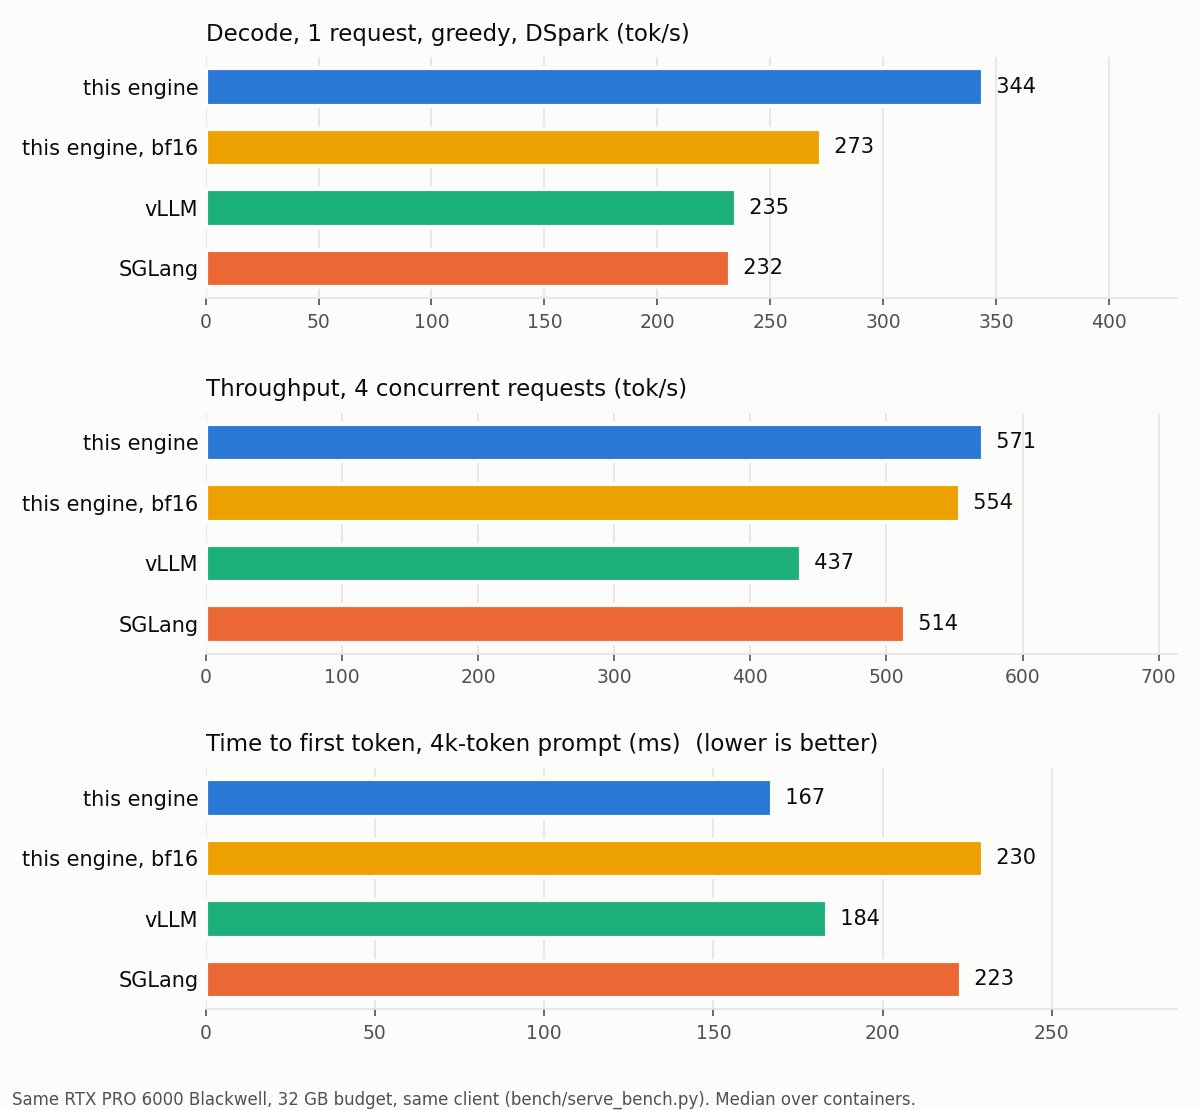
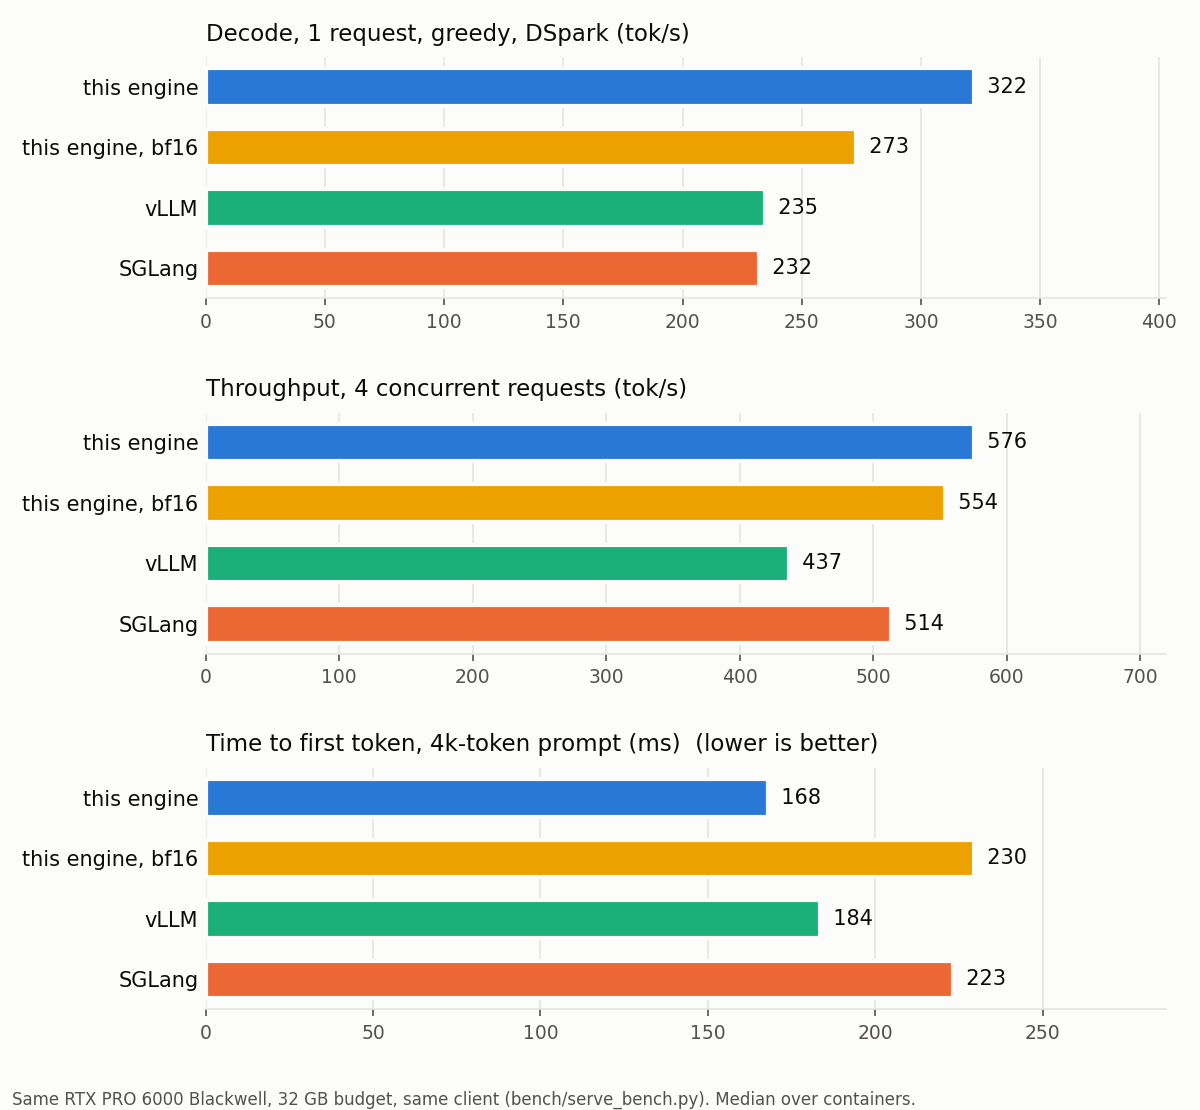
docs: 5090-size memory test, uncapped comparison, fifth container

diff --git a/docs/media/src/scenes/endcard.html b/docs/media/src/scenes/endcard.html
@@ -32,11 +32,11 @@
   <div id="kicker" class="label">Inkling-2-Mini · one 32 GB GPU</div>
   <div id="head">Faster decode than SGLang and&nbsp;vLLM.</div>
   <div id="stats">
-    <div class="row us"><div class="l label">This engine</div><div class="track"><div class="bar" data-v="344.1"></div><div class="v">344<small>TOK/S</small></div></div></div>
+    <div class="row us"><div class="l label">This engine</div><div class="track"><div class="bar" data-v="322.3"></div><div class="v">322<small>TOK/S</small></div></div></div>
     <div class="row"><div class="l label">SGLang</div><div class="track"><div class="bar" data-v="232.1"></div><div class="v">232<small>TOK/S</small></div></div></div>
     <div class="row"><div class="l label">vLLM</div><div class="track"><div class="bar" data-v="234.8"></div><div class="v">235<small>TOK/S</small></div></div></div>
   </div>
-  <div id="ctx">One request, greedy: medians over containers, same GPU, same 32&nbsp;GB budget, server default. 4 requests: 571 vs 514 (SGLang) and 437 (vLLM)&nbsp;tok/s. Python and Triton.</div>
+  <div id="ctx">One request, greedy: medians over containers, same GPU, same 32&nbsp;GB budget, server default. 4 requests: 576 vs 514 (SGLang) and 437 (vLLM)&nbsp;tok/s. Python and Triton.</div>
   <div id="url">github.com/amw720386/inkling-2-mini-inference</div>
   <div id="magni" class="label">Made at Magni</div>
 </div>

diff --git a/docs/media/src/scenes/howitworks.html b/docs/media/src/scenes/howitworks.html
@@ -51,7 +51,7 @@
     <span><i style="background:var(--green)"></i>accepted</span>
     <span><i style="background:var(--red)"></i>rejected</span>
   </div>
-  <div id="caveat">Measured on an RTX PRO 6000 Blackwell. 4 concurrent requests: 571 tok/s vs 514 (SGLang) and 437 (vLLM).</div>
+  <div id="caveat">Measured on an RTX PRO 6000 Blackwell. 4 concurrent requests: 576 tok/s vs 514 (SGLang) and 437 (vLLM).</div>
 </div>
 <script src="../lib/scene.js"></script>
 <script>

diff --git a/tools/results_table.py b/tools/results_table.py
@@ -2,7 +2,7 @@
 
 Each engine has one file per benchmark container (serve_ours.json, serve_ours-2.json, ...). A cell is the median over
 the containers that measured it. The README and docs/benchmarks.md tables are pasted from this output, so every number
-traces to a result file. `--spread` prints each container's value instead.
+traces to a result file. `--spread` prints each container's value instead, `--uncapped` the runs without the 32 GB memory cap.
 """
 
 import json
@@ -13,6 +13,7 @@ import sys
 
 ROOT = pathlib.Path(__file__).resolve().parent.parent
 ENGINES = [("ours", "this engine"), ("ours-bf16", "this engine, bf16"), ("vllm", "vLLM"), ("sglang", "SGLang")]
+UNCAPPED = [("ours-uncapped", "this engine"), ("vllm-uncapped", "vLLM"), ("sglang-uncapped", "SGLang")]
 METRICS = [  # (column, path, unit)
     ("decode, greedy", ("decode_greedy", "overall_tok_s"), ""), ("decode, T=1", ("decode_t1", "overall_tok_s"), ""),
     ("2 concurrent", ("concurrency", "2", "aggregate_tok_s"), ""),
@@ -25,7 +26,7 @@ METRICS = [  # (column, path, unit)
 
 def containers(engine):
     """Result files of one engine, one per container."""
-    pat = re.compile(rf"serve_{engine}(-\d+)?\.json$")
+    pat = re.compile(rf"serve_{engine}(-\d+)?\.json$")  # "ours" does not match "ours-uncapped"
     files = sorted(p for p in (ROOT / "results").glob("serve_*.json") if pat.match(p.name))
     return [r for r in (json.loads(p.read_text()) for p in files) if "error" not in r]
 
@@ -49,7 +50,7 @@ def main():
     spread = "--spread" in sys.argv
     print("| | " + " | ".join(m[0] for m in METRICS) + " |")
     print("|---|" + "---:|" * len(METRICS))
-    for engine, label in ENGINES:
+    for engine, label in (UNCAPPED if "--uncapped" in sys.argv else ENGINES):
         runs, cells = containers(engine), []
         for name, path, unit in METRICS:
             v = values(runs, path)

diff --git a/docs/benchmarks.md b/docs/benchmarks.md
@@ -3,10 +3,24 @@
 **Hardware.** Every number here comes from an NVIDIA RTX PRO 6000 Blackwell on Modal, with the engine held to a
 32 GB budget: 188 SMs and about 1.5 TB/s measured memory bandwidth.
 
-**RTX 5090.** The engine should carry over well: a 5090 has the same GB202 / sm_120 chip (170 SMs), similar rated
-memory bandwidth, and 32 GB. Decode is memory-bound. GeForce cards run bf16 tensor-core math with fp32 accumulation
-at half the PRO card's rate, so bf16 prefill should be slower there and the FP8 / FP4 paths should gain more. None of
-this has been measured on a 5090.
+**RTX 5090.** Does it fit? A second process filled the card until only 31.0 GiB was free (a 5090 has 32607 MiB =
+31.84 GiB in total), so the engine ran into a real device limit. Each job started from its own empty kernel cache, and all
+of these ran
+(`tests/gpu/fit_5090.py`, device peak from `nvidia-smi`, including the CUDA context):
+
+| | peak of 31.0 GiB |
+|---|---:|
+| default (FP8 + FP4), 4 slots x 32k, four 31k-token prompts at once, twice | 28.5 GiB |
+| bf16, the same | 28.6 GiB |
+| 256k context, one 250k-token prompt | 27.5 GiB |
+| server end-to-end test | 25.4 GiB |
+| soak test | 25.6 GiB |
+
+Before the kernel settings were pinned, a first start needed 31.3-31.5 GiB and ran out of memory here
+([experiments.md](experiments.md)). The 5090 has the same GB202 / sm_120 chip with 170 SMs and similar rated memory
+bandwidth, so the kernels run and decode, which is memory-bound, should carry over. GeForce cards run bf16 tensor-core
+math with fp32 accumulation at half the PRO card's rate, so bf16 prefill should be slower there and the FP8 / FP4 paths
+should gain more. Nothing has been run on a 5090, so no speed here is a 5090 speed.
 
 ## Same GPU, same client: this engine vs vLLM vs SGLang
 
@@ -14,7 +28,7 @@ this has been measured on a 5090.
 
 | | decode, greedy | decode, T=1 | 2 concurrent | 4 concurrent | TTFT 1k | TTFT 4k | TTFT 8k | TTFT 30k | GSM8K | peak GPU |
 |---|---:|---:|---:|---:|---:|---:|---:|---:|---:|---:|
-| this engine (4) | 344 | 264 | 464 | 571 | 48 ms | 167 ms | 341 ms | 1420 ms | 0.837 | 28.8 GiB |
+| this engine (5) | 322 | 267 | 463 | 576 | 48 ms | 168 ms | 343 ms | 1421 ms | 0.835 | 28.8 GiB |
 | this engine, bf16 (2) | 273 | 239 | 437 | 554 | 65 ms | 230 ms | 467 ms | 1884 ms | 0.853 | 28.6 GiB |
 | vLLM (2) | 235 | 212 | 302 | 437 | 60 ms | 184 ms | - | - | 0.840 | 32.3 GiB |
 | SGLang (5) | 232 | 192 | 298 | 514 | 67 ms | 223 ms | 434 ms | 1675 ms | 0.845 | 31.4 GiB |
@@ -29,9 +43,11 @@ differ. Measured 2026-11-23: SGLang `lmsysorg/sglang:inkling-2-mini`, vLLM 0.34.
 torch 2.9.1 and Triton 3.6. Raw files: `results/serve_*.json`, one per container; the table is their median
 (`tools/results_table.py`, `--spread` for every container).
 
-**Spread between containers** (lowest - highest): decode greedy 322-366 (ours) vs 232-233 (SGLang); T=1 262-267 vs
-190-193; 2 requests 458-467 vs 281-312; 4 requests 554-579 vs 500-538. Single-request decode past the natural end of
-an answer varies by run.
+**Spread between containers** (lowest - highest): decode greedy 320-366 (ours) vs 232-233 (SGLang) and 235 (vLLM);
+T=1 262-267 vs 190-193 and 212-213; 2 requests 458-467 vs 281-312; 4 requests 554-579 vs 500-538. Our greedy spread is one
+prompt: the 6 decode prompts include one that the engine runs past its natural end, where the text, and so the draft
+acceptance, varies by run. Over the other five, our medians are 357 / 361 / 362 tok/s vs 254 / 256 (SGLang) and 259 / 260
+(vLLM), about 1.4x both.
 
 How to read the columns:
 
@@ -49,6 +65,20 @@ Until 2026-11-22 the client divided all tokens by the time between the first and
 out special tokens at the end of an answer. Earlier decode numbers for this engine (for example 363 tok/s greedy and
 325 at temperature 1 for `--dense-fp8`) were too high and have been withdrawn. The concurrency numbers were best of
 two short runs.
+
+### Without the memory cap
+
+The 32 GB budget is this project's choice. On the whole 96 GB card, each engine with the same flags and no cap (vLLM at
+`--gpu-memory-utilization 0.9 --max-model-len 32768`, SGLang at `--mem-fraction-static 0.8`), two containers each:
+
+| | decode, greedy | decode, T=1 | 2 concurrent | 4 concurrent | TTFT 1k | TTFT 4k | TTFT 8k | TTFT 30k | GSM8K | peak GPU |
+|---|---:|---:|---:|---:|---:|---:|---:|---:|---:|---:|
+| this engine (2) | 321 | 266 | 463 | 565 | 48 ms | 168 ms | 342 ms | 1424 ms | 0.837 | 28.5 GiB |
+| vLLM (2) | 235 | 213 | 320 | 390 | 60 ms | 184 ms | 348 ms | 1409 ms | - | 84.3 GiB |
+| SGLang (2) | 228 | 203 | 299 | 512 | 68 ms | 199 ms | 395 ms | 1585 ms | - | 78.8 GiB |
+
+Every column has the same order as with the cap, except TTFT at 30k, where vLLM is level with this engine (1408-1411 vs
+1422-1426 ms). SGLang's and vLLM's decode rates barely change; vLLM's 30k prefill now fits.
 
 **vLLM** could not hold a 32k context in this budget. It reported 7.3 GiB of KV cache left after weights, which is
 about 6.9k tokens, so it ran with `--max-model-len 6144`. Its 8k and 30k TTFT are therefore missing, and its

diff --git a/README.md b/README.md
@@ -20,30 +20,34 @@ follows SGLang's implementation.
 
 **Ahead** (same GPU, same 32 GB budget, same client, medians over containers):
 
-- **Single-request decode:** greedy 344 vs 235 (vLLM) and 232 (SGLang) tok/s; temperature 1 264 vs 212 and 192.
-- **Concurrent requests:** 2 requests 464 vs 302 and 298 tok/s; 4 requests 571 vs 437 and 514.
-- **Time to first token:** 167 vs 184 and 223 ms at 4k tokens, and 1420 vs 1675 ms (SGLang) at 30k.
+- **Single-request decode:** greedy 322 vs 235 (vLLM) and 232 (SGLang) tok/s; temperature 1 267 vs 212 and 192.
+- **Concurrent requests:** 2 requests 463 vs 302 and 298 tok/s; 4 requests 576 vs 437 and 514.
+- **Time to first token:** 168 vs 184 and 223 ms at 4k tokens, and 1421 vs 1675 ms (SGLang) at 30k.
 - **More context in 32 GB:** four slots of 32k tokens each, and 256k on one card with an FP8 cache.
 
   <img src="docs/media/memory.gif" width="720" alt="The 32 GB budget: weights, four 32k KV slots, CUDA graphs; then one 256k FP8 slot">
 
-- **GSM8K** is level with both (0.835-0.840 vs 0.840 and 0.845, n = 200).
+- **GSM8K** is level with both (0.835-0.840 vs 0.840 and 0.845, n = 200; standard error about 0.026).
 
 **What to know:**
 
 - The server runs FP8 dense weights and FP4 prefill by default, which is not the bf16 checkpoint math.
   `--no-dense-fp8 --no-fp4-prefill` brings it back (decode 273 tok/s greedy, 4k TTFT 230 ms).
-- Single-request and 4-request rates depend on the prompts: over the six prompt rotations, individual 4-request
-  runs span 513-777 tok/s. Medians are over 2-5 containers per engine.
-- The engine should carry over well to an **RTX 5090**: it has the same GB202 chip, the engine fits in 32 GB, and
-  decode is limited mainly by memory bandwidth. We haven't measured it on one yet, and GeForce cards run bf16 with
-  fp32 accumulation at half rate, so the FP8 / FP4 paths matter more there.
+- Rates depend on the prompts: over the six prompt rotations, individual 4-request runs span 513-777 tok/s. Medians
+  are over 2-5 containers per engine. The table's 30k TTFT has no vLLM value because it doesn't fit in 32 GB.
+- **Without the 32 GB cap** (two containers each, every engine free to use the whole 96 GB card): decode greedy 321 vs
+  235 (vLLM) and 228 (SGLang), 4 requests 565 vs 390 and 512, 4k TTFT 168 vs 184 and 199 ms. At 30k tokens vLLM is level
+  with us (1409 vs 1424 ms); SGLang is at 1585 ms. ([docs/benchmarks.md](docs/benchmarks.md))
+- **RTX 5090:** it should work there. A 5090 has the same GB202 chip and 31.8 GiB of memory, and we tested the engine
+  with only 31.0 GiB left free on the card, from an empty kernel cache. The default and bf16 setups took four 31k-token
+  prompts at once and the 256k setup a 250k-token prompt, peaking at 28.6 GiB (`tests/gpu/fit_5090.py`). We haven't run it on a 5090, so its speed
+  there isn't measured: GeForce cards run bf16 prefill math at half the rate, so the FP8 / FP4 paths matter more.
 
 ![comparison](docs/img/comparison.png)
 
 | | decode, greedy | decode, T=1 | TTFT 4k | TTFT 8k | 2 / 4 concurrent | GSM8K |
 |---|---:|---:|---:|---:|---:|---:|
-| this engine | **344 tok/s** | **264 tok/s** | **167 ms** | **341 ms** | **464 / 571 tok/s** | 0.837 |
+| this engine | **322 tok/s** | **267 tok/s** | **168 ms** | **343 ms** | **463 / 576 tok/s** | 0.835 |
 | this engine, bf16 | 273 tok/s | 239 tok/s | 230 ms | 467 ms | 437 / 554 tok/s | 0.853 |
 | vLLM 0.34 nightly | 235 tok/s | 212 tok/s | 184 ms | does not fit | 302 / 437 tok/s | 0.840 |
 | SGLang (Inkling image) | 232 tok/s | 192 tok/s | 223 ms | 434 ms | 298 / 514 tok/s | 0.845 |
@@ -93,7 +97,7 @@ curl -s localhost:8000/v1/chat/completions -H 'content-type: application/json' \
 
 The defaults are 4 concurrent requests, 32k context, DSpark, FP8 dense weights, FP4 prefill and image input. Add
 `--no-dense-fp8 --no-fp4-prefill` for the bf16 checkpoint math, or `--kv-fp8 --max-ctx 262144 --slots 1` for long context ([serving.md](docs/serving.md)). The first start compiles
-and autotunes the Triton kernels, which takes a few minutes.
+the Triton kernels, which takes about a minute; the kernel settings ship with the engine.
 
 ## Reproduce
 

diff --git a/docs/media/storyboard.md b/docs/media/storyboard.md
@@ -33,11 +33,11 @@ measured 2026-11-23; regenerate with `tools/results_table.py`):
 
 | | this engine (default) | bf16 | SGLang | vLLM 0.34 |
 |---|---:|---:|---:|---:|
-| decode, greedy, 1 request (tok/s) | **344** | 273 | 232 | 235 |
-| decode, temperature 1 (tok/s) | 264 | 239 | 192 | 212 |
-| TTFT 8k (ms) | 341 | 467 | 434 | does not fit |
-| 2 / 4 concurrent (tok/s) | 464 / **571** | 437 / 554 | 298 / 514 | 302 / 437 |
-| GSM8K, n = 200 | 0.837 | 0.853 | 0.845 | 0.840 |
+| decode, greedy, 1 request (tok/s) | **322** | 273 | 232 | 235 |
+| decode, temperature 1 (tok/s) | 267 | 239 | 192 | 212 |
+| TTFT 8k (ms) | 343 | 467 | 434 | does not fit |
+| 2 / 4 concurrent (tok/s) | 463 / **576** | 437 / 554 | 298 / 514 | 302 / 437 |
+| GSM8K, n = 200 | 0.835 | 0.853 | 0.845 | 0.840 |
 
 Earlier figures (363, 325, 280, 545 vs 474) are withdrawn. Still to do before release:
 
@@ -116,7 +116,7 @@ Three boxes joined by arrows, each with a caps label, a two-line body and a smal
 3. `VERIFY` / "keeps the longest matching prefix; width 2, 4 or 8 per round" / glyph: tiles green then one red
 
 Legend line: `■ active expert  ■ draft token  ■ accepted`. Caveat, one line: `Measured on an RTX PRO 6000
-Blackwell. 4 concurrent requests: 571 tok/s vs 514 (SGLang) and 437 (vLLM).`
+Blackwell. 4 concurrent requests: 576 tok/s vs 514 (SGLang) and 437 (vLLM).`
 
 ### Scene 4: memory, 17.6-20.6 s
 
@@ -129,8 +129,8 @@ graphs, free. Headline: `Four 32k contexts in 32 GB.` Then the slots merge into 
 
 - Kicker: `INKLING-2-MINI · ONE 32 GB GPU`
 - Headline: `Faster decode than SGLang and vLLM.`
-- Three zero-based bars growing in: this engine 344, SGLang 232, vLLM 235 tok/s (beside the text in 16:9)
-- Context: `One request, greedy: medians over containers, same GPU, same 32 GB budget, server default. 4 requests: 571 vs 514 (SGLang) and 437 (vLLM) tok/s. Python and Triton.`
+- Three zero-based bars growing in: this engine 322, SGLang 232, vLLM 235 tok/s (beside the text in 16:9)
+- Context: `One request, greedy: medians over containers, same GPU, same 32 GB budget, server default. 4 requests: 576 vs 514 (SGLang) and 437 (vLLM) tok/s. Python and Triton.`
 - URL: `github.com/amw720386/inkling-2-mini-inference`
 - Bottom: `MADE AT MAGNI`
 

diff --git a/docs/media/tweets.md b/docs/media/tweets.md
@@ -9,7 +9,7 @@ first post: the rendered one still shows withdrawn numbers.
 
 We built an inference engine for Inkling-2-Mini, the 26B looped MoE, that fits on one 32 GB GPU.
 
-Single-request decode: 344 tok/s, vs 232 for SGLang and 235 for vLLM on the same GPU and the same 32 GB budget
+Single-request decode: 322 tok/s, vs 232 for SGLang and 235 for vLLM on the same GPU and the same 32 GB budget
 (medians over containers).
 
 Python + Triton, open source. Video below.
@@ -38,7 +38,7 @@ GSM8K is within noise of SGLang and vLLM (0.83 vs 0.845 / 0.84, n = 200).
 
 **5/**
 
-4 concurrent requests: 571 tok/s, vs 514 for SGLang and 437 for vLLM. It should carry over well to an RTX 5090 (same
+4 concurrent requests: 576 tok/s, vs 514 for SGLang and 437 for vLLM. It should carry over well to an RTX 5090 (same
 chip, fits in 32 GB), not measured yet.
 
 All numbers are from an RTX PRO 6000 Blackwell, 32 GB budget per engine.
@@ -46,6 +46,6 @@ All numbers are from an RTX PRO 6000 Blackwell, 32 GB budget per engine.
 ## Single post
 
 Inkling-2-Mini (26B looped MoE) on one 32 GB GPU: faster single-request decode than SGLang and vLLM on the
-same card and budget (344 vs 232 / 235 tok/s). Fused Triton kernels, one CUDA graph per step, DSpark speculation. Open source. Video below.
+same card and budget (322 vs 232 / 235 tok/s). Fused Triton kernels, one CUDA graph per step, DSpark speculation. Open source. Video below.
 
 github.com/amw720386/inkling-2-mini-inference
